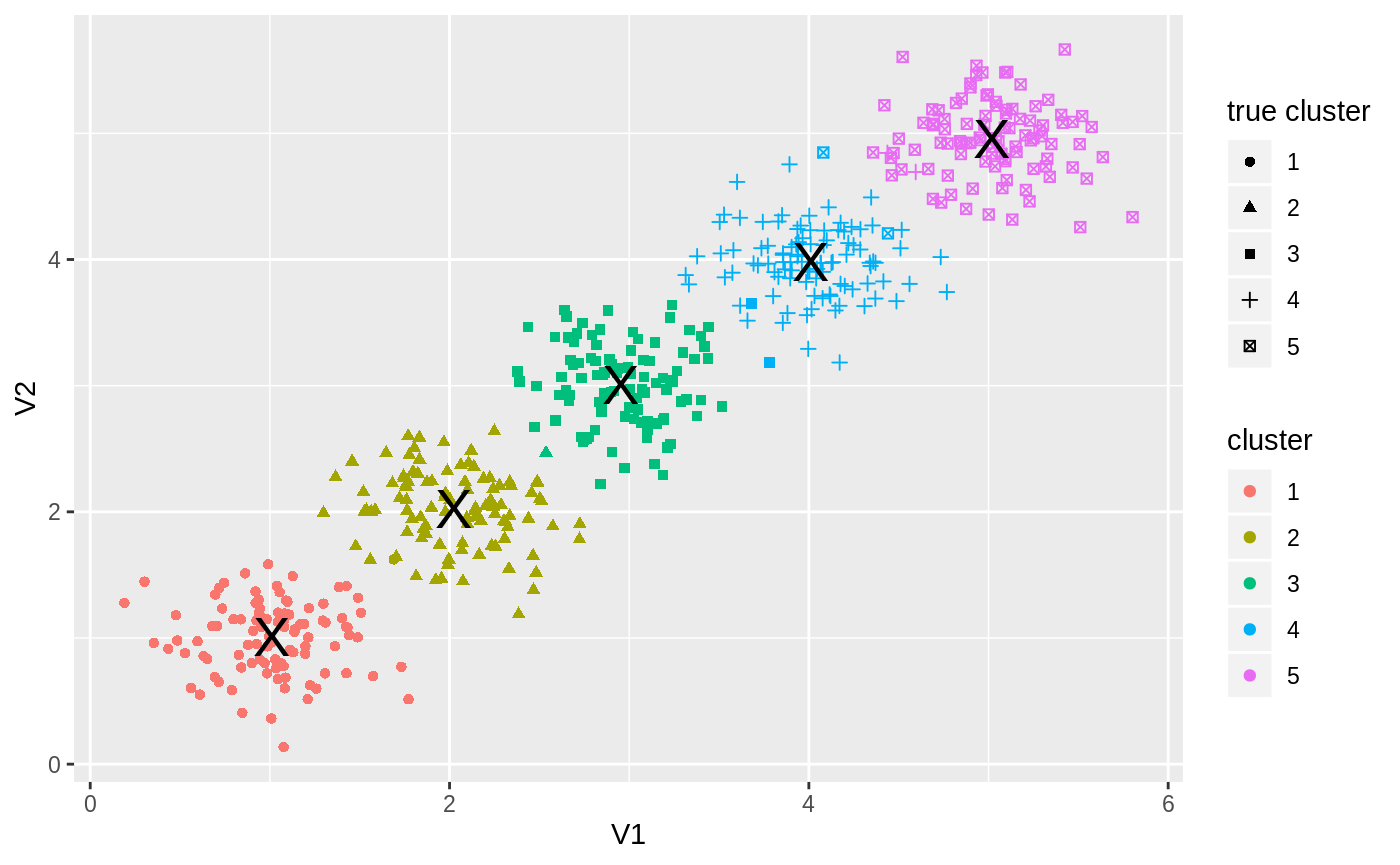
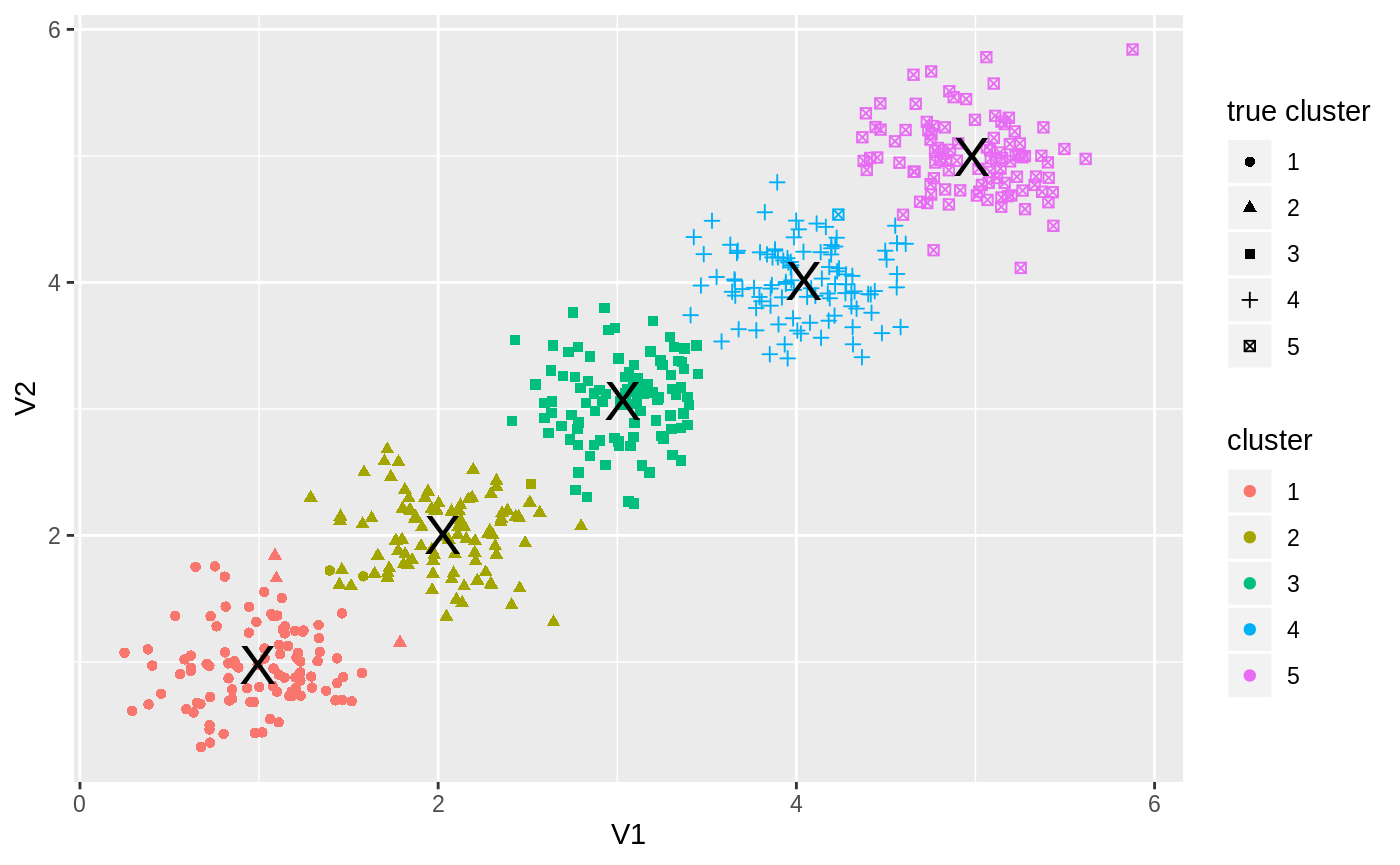
Built site for tglkmeans: 0.3.1.9000@31ac662

diff --git a/articles/usage.html b/articles/usage.html
@@ -108,16 +108,16 @@
 <pre><code>## # A tibble: 500 x 4
 ##       id    V1    V2 true_clust
 ##    &lt;int&gt; &lt;dbl&gt; &lt;dbl&gt;      &lt;int&gt;
-##  1     1 1.21  0.515          1
-##  2     2 1.20  0.935          1
-##  3     3 1.49  1.01           1
-##  4     4 1.14  1.07           1
-##  5     5 1.08  1.14           1
-##  6     6 1.21  1.00           1
-##  7     7 0.987 0.934          1
-##  8     8 1.31  1.12           1
-##  9     9 0.484 0.980          1
-## 10    10 1.31  0.719          1
+##  1     1 0.808 1.67           1
+##  2     2 1.11  0.899          1
+##  3     3 0.934 0.791          1
+##  4     4 0.754 1.75           1
+##  5     5 0.829 0.871          1
+##  6     6 0.249 1.07           1
+##  7     7 0.833 0.695          1
+##  8     8 1.20  0.878          1
+##  9     9 1.58  1.68           1
+## 10    10 0.727 0.722          1
 ## # … with 490 more rows</code></pre>
 <p>This is how our data looks like:</p>
 <div class="sourceCode" id="cb3"><pre class="sourceCode r"><code class="sourceCode r"><a class="sourceLine" id="cb3-1" data-line-number="1">data <span class="op">%&gt;%</span><span class="st"> </span><span class="kw">ggplot</span>(<span class="kw">aes</span>(<span class="dt">x=</span>V1, <span class="dt">y=</span>V2, <span class="dt">color=</span><span class="kw"><a href="https://rdrr.io/r/base/factor.html">factor</a></span>(true_clust))) <span class="op">+</span><span class="st"> </span></a>
@@ -134,32 +134,34 @@
 <pre><code>## KMEans: will generate seeds
 ## KMeans into generate seeds
 ## at seed 0
-## add new core from 202 to 0
+## add new core from 243 to 0
 ## at seed 1
 ## done update min distance
 ## seed range 350 450
-## picked up 424 dist was 1.63547
-## add new core from 424 to 1
+## picked up 58 dist was 1.67974
+## add new core from 58 to 1
 ## at seed 2
 ## done update min distance
 ## seed range 300 400
-## picked up 12 dist was 1.55859
-## add new core from 12 to 2
+## picked up 434 dist was 1.28292
+## add new core from 434 to 2
 ## at seed 3
 ## done update min distance
 ## seed range 250 350
-## picked up 382 dist was 0.73802
-## add new core from 382 to 3
+## picked up 100 dist was 0.649649
+## add new core from 100 to 3
 ## at seed 4
 ## done update min distance
 ## seed range 200 300
-## picked up 150 dist was 0.680809
-## add new core from 150 to 4
+## picked up 367 dist was 0.617641
+## add new core from 367 to 4
 ## KMEans: reassign after init
 ## KMEans: iter 0
 ## KMEans: iter 1 changed 3
 ## KMEans: iter 1
-## KMEans: iter 2 changed 0</code></pre>
+## KMEans: iter 2 changed 3
+## KMEans: iter 2
+## KMEans: iter 3 changed 0</code></pre>
 <p>The returned list contains 3 fields:</p>
 <div class="sourceCode" id="cb7"><pre class="sourceCode r"><code class="sourceCode r"><a class="sourceLine" id="cb7-1" data-line-number="1"><span class="kw"><a href="https://rdrr.io/r/base/names.html">names</a></span>(km)</a></code></pre></div>
 <pre><code>## [1] "centers" "cluster" "size"</code></pre>
@@ -168,27 +170,27 @@
 <pre><code>## # A tibble: 5 x 3
 ##   clust    V1    V2
 ##   &lt;int&gt; &lt;dbl&gt; &lt;dbl&gt;
-## 1     1  2.95  3.01
-## 2     2  2.02  2.02
-## 3     3  4.01  3.98
-## 4     4  5.01  4.96
-## 5     5  1.01  1.00</code></pre>
+## 1     1 3.03  3.06 
+## 2     2 4.98  4.99 
+## 3     3 4.04  4.01 
+## 4     4 0.989 0.977
+## 5     5 2.03  2.00</code></pre>
 <p>clusters are numbered according to <code>order_func</code> (see ‘Custom cluster ordering’ section).</p>
 <p><code>km$cluster</code> contains tibble with <code>id</code> column with the observation id (<code>1:n</code> if no id column was supplied), and <code>clust</code> column with the observation assigned cluster:</p>
 <div class="sourceCode" id="cb11"><pre class="sourceCode r"><code class="sourceCode r"><a class="sourceLine" id="cb11-1" data-line-number="1">km<span class="op">$</span>cluster</a></code></pre></div>
 <pre><code>## # A tibble: 500 x 2
 ##    id    clust
 ##    &lt;chr&gt; &lt;int&gt;
-##  1 1         5
-##  2 2         5
-##  3 3         5
-##  4 4         5
-##  5 5         5
-##  6 6         5
-##  7 7         5
-##  8 8         5
+##  1 1         4
+##  2 2         4
+##  3 3         4
+##  4 4         4
+##  5 5         4
+##  6 6         4
+##  7 7         4
+##  8 8         4
 ##  9 9         5
-## 10 10        5
+## 10 10        4
 ## # … with 490 more rows</code></pre>
 <p><code>km$size</code> contains tibble with <code>clust</code> column and <code>n</code> column with the number of points in each cluster:</p>
 <div class="sourceCode" id="cb13"><pre class="sourceCode r"><code class="sourceCode r"><a class="sourceLine" id="cb13-1" data-line-number="1">km<span class="op">$</span>size</a></code></pre></div>
@@ -196,14 +198,14 @@
 ##   clust     n
 ##   &lt;int&gt; &lt;int&gt;
 ## 1     1    99
-## 2     2   100
-## 3     3   102
-## 4     4   100
-## 5     5    99</code></pre>
+## 2     2    99
+## 3     3   101
+## 4     4   101
+## 5     5   100</code></pre>
 <p>We can now check our clustering performance - fraction of observations that were classified correctly (Note that <code>match_clusters</code> function is internal to the package and is used only in this vignette):</p>
 <div class="sourceCode" id="cb15"><pre class="sourceCode r"><code class="sourceCode r"><a class="sourceLine" id="cb15-1" data-line-number="1">d &lt;-<span class="st"> </span>tglkmeans<span class="op">:::</span><span class="kw">match_clusters</span>(data, km, <span class="dv">5</span>)</a>
 <a class="sourceLine" id="cb15-2" data-line-number="2"><span class="kw"><a href="https://rdrr.io/r/base/sum.html">sum</a></span>(d<span class="op">$</span>true_clust <span class="op">==</span><span class="st"> </span>d<span class="op">$</span>new_clust, <span class="dt">na.rm=</span><span class="ot">TRUE</span>) <span class="op">/</span><span class="st"> </span><span class="kw"><a href="https://rdrr.io/r/base/sum.html">sum</a></span>(<span class="op">!</span><span class="kw"><a href="https://rdrr.io/r/base/NA.html">is.na</a></span>(d<span class="op">$</span>new_clust))</a></code></pre></div>
-<pre><code>## [1] 0.984</code></pre>
+<pre><code>## [1] 0.986</code></pre>
 <p>And plot the results:</p>
 <div class="sourceCode" id="cb17"><pre class="sourceCode r"><code class="sourceCode r"><a class="sourceLine" id="cb17-1" data-line-number="1">d <span class="op">%&gt;%</span><span class="st"> </span><span class="kw">ggplot</span>(<span class="kw">aes</span>(<span class="dt">x=</span>V1, <span class="dt">y=</span>V2, <span class="dt">color=</span><span class="kw"><a href="https://rdrr.io/r/base/factor.html">factor</a></span>(new_clust), <span class="dt">shape=</span><span class="kw"><a href="https://rdrr.io/r/base/factor.html">factor</a></span>(true_clust))) <span class="op">+</span><span class="st"> </span></a>
 <a class="sourceLine" id="cb17-2" data-line-number="2"><span class="st">    </span><span class="kw">geom_point</span>() <span class="op">+</span><span class="st"> </span></a>
@@ -226,11 +228,11 @@
 <pre><code>## # A tibble: 5 x 3
 ##   clust    V1    V2
 ##   &lt;int&gt; &lt;dbl&gt; &lt;dbl&gt;
-## 1     1  1.01  1.00
-## 2     2  2.02  2.02
-## 3     3  2.95  3.01
-## 4     4  4.01  3.98
-## 5     5  5.01  4.96</code></pre>
+## 1     1 0.989 0.977
+## 2     2 2.03  2.00 
+## 3     3 3.03  3.06 
+## 4     4 4.04  4.01 
+## 5     5 4.98  4.99</code></pre>
 </div>
 <div id="missing-data" class="section level2">
 <h2 class="hasAnchor">
@@ -241,16 +243,16 @@
 <pre><code>## # A tibble: 500 x 4
 ##       id     V1    V2 true_clust
 ##    &lt;int&gt;  &lt;dbl&gt; &lt;dbl&gt;      &lt;int&gt;
-##  1     1  1.21  0.515          1
-##  2     2  1.20  0.935          1
-##  3     3  1.49  1.01           1
-##  4     4 NA     1.07           1
-##  5     5  1.08  1.14           1
-##  6     6  1.21  1.00           1
-##  7     7  0.987 0.934          1
-##  8     8  1.31  1.12           1
-##  9     9 NA     0.980          1
-## 10    10 NA     0.719          1
+##  1     1  0.808 1.67           1
+##  2     2  1.11  0.899          1
+##  3     3  0.934 0.791          1
+##  4     4  0.754 1.75           1
+##  5     5 NA     0.871          1
+##  6     6 NA     1.07           1
+##  7     7  0.833 0.695          1
+##  8     8  1.20  0.878          1
+##  9     9  1.58  1.68           1
+## 10    10  0.727 0.722          1
 ## # … with 490 more rows</code></pre>
 <div class="sourceCode" id="cb22"><pre class="sourceCode r"><code class="sourceCode r"><a class="sourceLine" id="cb22-1" data-line-number="1">km &lt;-<span class="st"> </span><span class="kw"><a href="../reference/TGL_kmeans_tidy.html">TGL_kmeans_tidy</a></span>(data <span class="op">%&gt;%</span><span class="st"> </span><span class="kw">select</span>(id, <span class="kw">starts_with</span>(<span class="st">'V'</span>)), </a>
 <a class="sourceLine" id="cb22-2" data-line-number="2">              <span class="dt">k=</span><span class="dv">5</span>, </a>
@@ -258,7 +260,7 @@
 <a class="sourceLine" id="cb22-4" data-line-number="4">              <span class="dt">verbose=</span><span class="ot">FALSE</span>)</a>
 <a class="sourceLine" id="cb22-5" data-line-number="5">d &lt;-<span class="st"> </span>tglkmeans<span class="op">:::</span><span class="kw">match_clusters</span>(data, km, <span class="dv">5</span>)</a>
 <a class="sourceLine" id="cb22-6" data-line-number="6"><span class="kw"><a href="https://rdrr.io/r/base/sum.html">sum</a></span>(d<span class="op">$</span>true_clust <span class="op">==</span><span class="st"> </span>d<span class="op">$</span>new_clust, <span class="dt">na.rm=</span><span class="ot">TRUE</span>) <span class="op">/</span><span class="st"> </span><span class="kw"><a href="https://rdrr.io/r/base/sum.html">sum</a></span>(<span class="op">!</span><span class="kw"><a href="https://rdrr.io/r/base/NA.html">is.na</a></span>(d<span class="op">$</span>new_clust))</a></code></pre></div>
-<pre><code>## [1] 0.978</code></pre>
+<pre><code>## [1] 0.974</code></pre>
 <p>and plotting the results (without the NA’s) we get:</p>
 <div class="sourceCode" id="cb24"><pre class="sourceCode r"><code class="sourceCode r"><a class="sourceLine" id="cb24-1" data-line-number="1">d <span class="op">%&gt;%</span><span class="st"> </span><span class="kw">ggplot</span>(<span class="kw">aes</span>(<span class="dt">x=</span>V1, <span class="dt">y=</span>V2, <span class="dt">color=</span><span class="kw"><a href="https://rdrr.io/r/base/factor.html">factor</a></span>(new_clust), <span class="dt">shape=</span><span class="kw"><a href="https://rdrr.io/r/base/factor.html">factor</a></span>(true_clust))) <span class="op">+</span><span class="st"> </span></a>
 <a class="sourceLine" id="cb24-2" data-line-number="2"><span class="st">    </span><span class="kw">geom_point</span>() <span class="op">+</span><span class="st"> </span></a>
@@ -290,7 +292,7 @@
 <a class="sourceLine" id="cb29-3" data-line-number="3"></a>
 <a class="sourceLine" id="cb29-4" data-line-number="4">d &lt;-<span class="st"> </span>tglkmeans<span class="op">:::</span><span class="kw">match_clusters</span>(data, km_standard, <span class="dv">30</span>)</a>
 <a class="sourceLine" id="cb29-5" data-line-number="5"><span class="kw"><a href="https://rdrr.io/r/base/sum.html">sum</a></span>(d<span class="op">$</span>true_clust <span class="op">==</span><span class="st"> </span>d<span class="op">$</span>new_clust, <span class="dt">na.rm=</span><span class="ot">TRUE</span>) <span class="op">/</span><span class="st"> </span><span class="kw"><a href="https://rdrr.io/r/base/sum.html">sum</a></span>(<span class="op">!</span><span class="kw"><a href="https://rdrr.io/r/base/NA.html">is.na</a></span>(d<span class="op">$</span>new_clust))</a></code></pre></div>
-<pre><code>## [1] 0.625</code></pre>
+<pre><code>## [1] 0.7142857</code></pre>
 <p>We can see that kmeans++ clusters siginifcantly better than R vannila kmeans.</p>
 </div>
 <div id="random-seed" class="section level2">

diff --git a/reference/TGL_kmeans.html b/reference/TGL_kmeans.html
@@ -136,7 +136,7 @@
     </div>
 
     <pre class="usage"><span class='fu'>TGL_kmeans</span>(<span class='no'>df</span>, <span class='no'>k</span>, <span class='kw'>metric</span> <span class='kw'>=</span> <span class='st'>"euclid"</span>, <span class='kw'>max_iter</span> <span class='kw'>=</span> <span class='fl'>40</span>,
-  <span class='kw'>min_delta</span> <span class='kw'>=</span> <span class='fl'>1e-04</span>, <span class='kw'>verbose</span> <span class='kw'>=</span> <span class='fl'>FALSE</span>, <span class='kw'>keep_log</span> <span class='kw'>=</span> <span class='fl'>TRUE</span>,
+  <span class='kw'>min_delta</span> <span class='kw'>=</span> <span class='fl'>1e-04</span>, <span class='kw'>verbose</span> <span class='kw'>=</span> <span class='fl'>FALSE</span>, <span class='kw'>keep_log</span> <span class='kw'>=</span> <span class='fl'>FALSE</span>,
   <span class='kw'>id_column</span> <span class='kw'>=</span> <span class='fl'>TRUE</span>, <span class='kw'>reorder_func</span> <span class='kw'>=</span> <span class='st'>"hclust"</span>,
   <span class='kw'>hclust_intra_clusters</span> <span class='kw'>=</span> <span class='fl'>FALSE</span>, <span class='kw'>seed</span> <span class='kw'>=</span> <span class='kw'>NULL</span>,
   <span class='kw'>parallel</span> <span class='kw'>=</span> <span class='fu'><a href='https://rdrr.io/r/base/options.html'>getOption</a></span>(<span class='st'>"tglkmeans.parallel"</span>))</pre>
@@ -234,43 +234,43 @@ if NULL, no reordering would be done.</p></td>
 <span class='no'>km</span> <span class='kw'>&lt;-</span> <span class='fu'>TGL_kmeans</span>(<span class='no'>d</span>, <span class='kw'>k</span> <span class='kw'>=</span> <span class='fl'>5</span>, <span class='st'>"euclid"</span>, <span class='kw'>verbose</span> <span class='kw'>=</span> <span class='fl'>TRUE</span>)</div><div class='output co'>#&gt; <span class='message'>id column: id</span></div><div class='output co'>#&gt; KMEans: will generate seeds
 #&gt; KMeans into generate seeds
 #&gt; at seed 0
-#&gt; add new core from 226 to 0
+#&gt; add new core from 402 to 0
 #&gt; at seed 1
 #&gt; done update min distance
 #&gt; seed range 350 450
-#&gt; picked up 482 dist was 1.53118
-#&gt; add new core from 482 to 1
+#&gt; picked up 98 dist was 2.59358
+#&gt; add new core from 98 to 1
 #&gt; at seed 2
 #&gt; done update min distance
 #&gt; seed range 300 400
-#&gt; picked up 74 dist was 1.13317
-#&gt; add new core from 74 to 2
+#&gt; picked up 370 dist was 1.16358
+#&gt; add new core from 370 to 2
 #&gt; at seed 3
 #&gt; done update min distance
 #&gt; seed range 250 350
-#&gt; picked up 363 dist was 0.748902
-#&gt; add new core from 363 to 3
+#&gt; picked up 300 dist was 0.599254
+#&gt; add new core from 300 to 3
 #&gt; at seed 4
 #&gt; done update min distance
 #&gt; seed range 200 300
-#&gt; picked up 149 dist was 0.546415
-#&gt; add new core from 149 to 4
+#&gt; picked up 6 dist was 0.459251
+#&gt; add new core from 6 to 4
 #&gt; KMEans: reassign after init
 #&gt; KMEans: iter 0
-#&gt; KMEans: iter 1 changed 5
+#&gt; KMEans: iter 1 changed 33
 #&gt; KMEans: iter 1
-#&gt; KMEans: iter 2 changed 4
+#&gt; KMEans: iter 2 changed 18
 #&gt; KMEans: iter 2
-#&gt; KMEans: iter 3 changed 1
+#&gt; KMEans: iter 3 changed 5
 #&gt; KMEans: iter 3
 #&gt; KMEans: iter 4 changed 0</div><div class='input'><span class='fu'><a href='https://rdrr.io/r/base/names.html'>names</a></span>(<span class='no'>km</span>)</div><div class='output co'>#&gt; [1] "cluster" "centers" "size"   </div><div class='input'><span class='no'>km</span>$<span class='no'>centers</span></div><div class='output co'>#&gt;            V1       V2
-#&gt; [1,] 2.004643 2.058945
+#&gt; [1,] 1.019032 1.034553
 #&gt; [2,] 3.969391 4.038842
-#&gt; [3,] 1.019032 1.034553
-#&gt; [4,] 2.970509 3.012197
-#&gt; [5,] 4.975310 5.048907</div><div class='input'><span class='fu'><a href='https://rdrr.io/r/utils/head.html'>head</a></span>(<span class='no'>km</span>$<span class='no'>cluster</span>)</div><div class='output co'>#&gt; 1 2 3 4 5 6 
-#&gt; 3 3 3 3 3 3 </div><div class='input'><span class='no'>km</span>$<span class='no'>size</span></div><div class='output co'>#&gt;   1   2   3   4   5 
-#&gt; 102  98 100 101  99 </div><div class='input'>
+#&gt; [3,] 2.964869 3.008410
+#&gt; [4,] 4.975310 5.048907
+#&gt; [5,] 2.000776 2.053331</div><div class='input'><span class='fu'><a href='https://rdrr.io/r/utils/head.html'>head</a></span>(<span class='no'>km</span>$<span class='no'>cluster</span>)</div><div class='output co'>#&gt; 1 2 3 4 5 6 
+#&gt; 1 1 1 1 1 1 </div><div class='input'><span class='no'>km</span>$<span class='no'>size</span></div><div class='output co'>#&gt;   1   2   3   4   5 
+#&gt; 100  98 102  99 101 </div><div class='input'>
 </div></pre>
   </div>
   <div class="col-md-3 hidden-xs hidden-sm" id="sidebar">

diff --git a/reference/TGL_kmeans_tidy.html b/reference/TGL_kmeans_tidy.html
@@ -136,7 +136,7 @@
     </div>
 
     <pre class="usage"><span class='fu'>TGL_kmeans_tidy</span>(<span class='no'>df</span>, <span class='no'>k</span>, <span class='kw'>metric</span> <span class='kw'>=</span> <span class='st'>"euclid"</span>, <span class='kw'>max_iter</span> <span class='kw'>=</span> <span class='fl'>40</span>,
-  <span class='kw'>min_delta</span> <span class='kw'>=</span> <span class='fl'>1e-04</span>, <span class='kw'>verbose</span> <span class='kw'>=</span> <span class='fl'>FALSE</span>, <span class='kw'>keep_log</span> <span class='kw'>=</span> <span class='fl'>TRUE</span>,
+  <span class='kw'>min_delta</span> <span class='kw'>=</span> <span class='fl'>1e-04</span>, <span class='kw'>verbose</span> <span class='kw'>=</span> <span class='fl'>FALSE</span>, <span class='kw'>keep_log</span> <span class='kw'>=</span> <span class='fl'>FALSE</span>,
   <span class='kw'>id_column</span> <span class='kw'>=</span> <span class='fl'>TRUE</span>, <span class='kw'>reorder_func</span> <span class='kw'>=</span> <span class='st'>"hclust"</span>, <span class='kw'>add_to_data</span> <span class='kw'>=</span> <span class='fl'>FALSE</span>,
   <span class='kw'>hclust_intra_clusters</span> <span class='kw'>=</span> <span class='fl'>FALSE</span>, <span class='kw'>seed</span> <span class='kw'>=</span> <span class='kw'>NULL</span>,
   <span class='kw'>parallel</span> <span class='kw'>=</span> <span class='fu'><a href='https://rdrr.io/r/base/options.html'>getOption</a></span>(<span class='st'>"tglkmeans.parallel"</span>))</pre>
@@ -234,36 +234,34 @@ if NULL, no reordering would be done.</p></td>
 <span class='no'>km</span> <span class='kw'>&lt;-</span> <span class='fu'>TGL_kmeans_tidy</span>(<span class='no'>d</span>, <span class='kw'>k</span> <span class='kw'>=</span> <span class='fl'>5</span>, <span class='st'>"euclid"</span>, <span class='kw'>verbose</span> <span class='kw'>=</span> <span class='fl'>TRUE</span>)</div><div class='output co'>#&gt; <span class='message'>id column: id</span></div><div class='output co'>#&gt; KMEans: will generate seeds
 #&gt; KMeans into generate seeds
 #&gt; at seed 0
-#&gt; add new core from 352 to 0
+#&gt; add new core from 363 to 0
 #&gt; at seed 1
 #&gt; done update min distance
 #&gt; seed range 350 450
-#&gt; picked up 21 dist was 1.97174
-#&gt; add new core from 21 to 1
+#&gt; picked up 15 dist was 2.33553
+#&gt; add new core from 15 to 1
 #&gt; at seed 2
 #&gt; done update min distance
 #&gt; seed range 300 400
-#&gt; picked up 241 dist was 0.730343
-#&gt; add new core from 241 to 2
+#&gt; picked up 258 dist was 1.00935
+#&gt; add new core from 258 to 2
 #&gt; at seed 3
 #&gt; done update min distance
 #&gt; seed range 250 350
-#&gt; picked up 491 dist was 0.635801
-#&gt; add new core from 491 to 3
+#&gt; picked up 178 dist was 0.67428
+#&gt; add new core from 178 to 3
 #&gt; at seed 4
 #&gt; done update min distance
 #&gt; seed range 200 300
-#&gt; picked up 112 dist was 0.453713
-#&gt; add new core from 112 to 4
+#&gt; picked up 469 dist was 0.526642
+#&gt; add new core from 469 to 4
 #&gt; KMEans: reassign after init
 #&gt; KMEans: iter 0
-#&gt; KMEans: iter 1 changed 17
+#&gt; KMEans: iter 1 changed 3
 #&gt; KMEans: iter 1
-#&gt; KMEans: iter 2 changed 7
+#&gt; KMEans: iter 2 changed 2
 #&gt; KMEans: iter 2
-#&gt; KMEans: iter 3 changed 1
-#&gt; KMEans: iter 3
-#&gt; KMEans: iter 4 changed 0</div><div class='input'><span class='no'>km</span></div><div class='output co'>#&gt; $centers
+#&gt; KMEans: iter 3 changed 0</div><div class='input'><span class='no'>km</span></div><div class='output co'>#&gt; $centers
 #&gt; # A tibble: 5 x 3
 #&gt;   clust    V1    V2
 #&gt;   &lt;int&gt; &lt;dbl&gt; &lt;dbl&gt;
